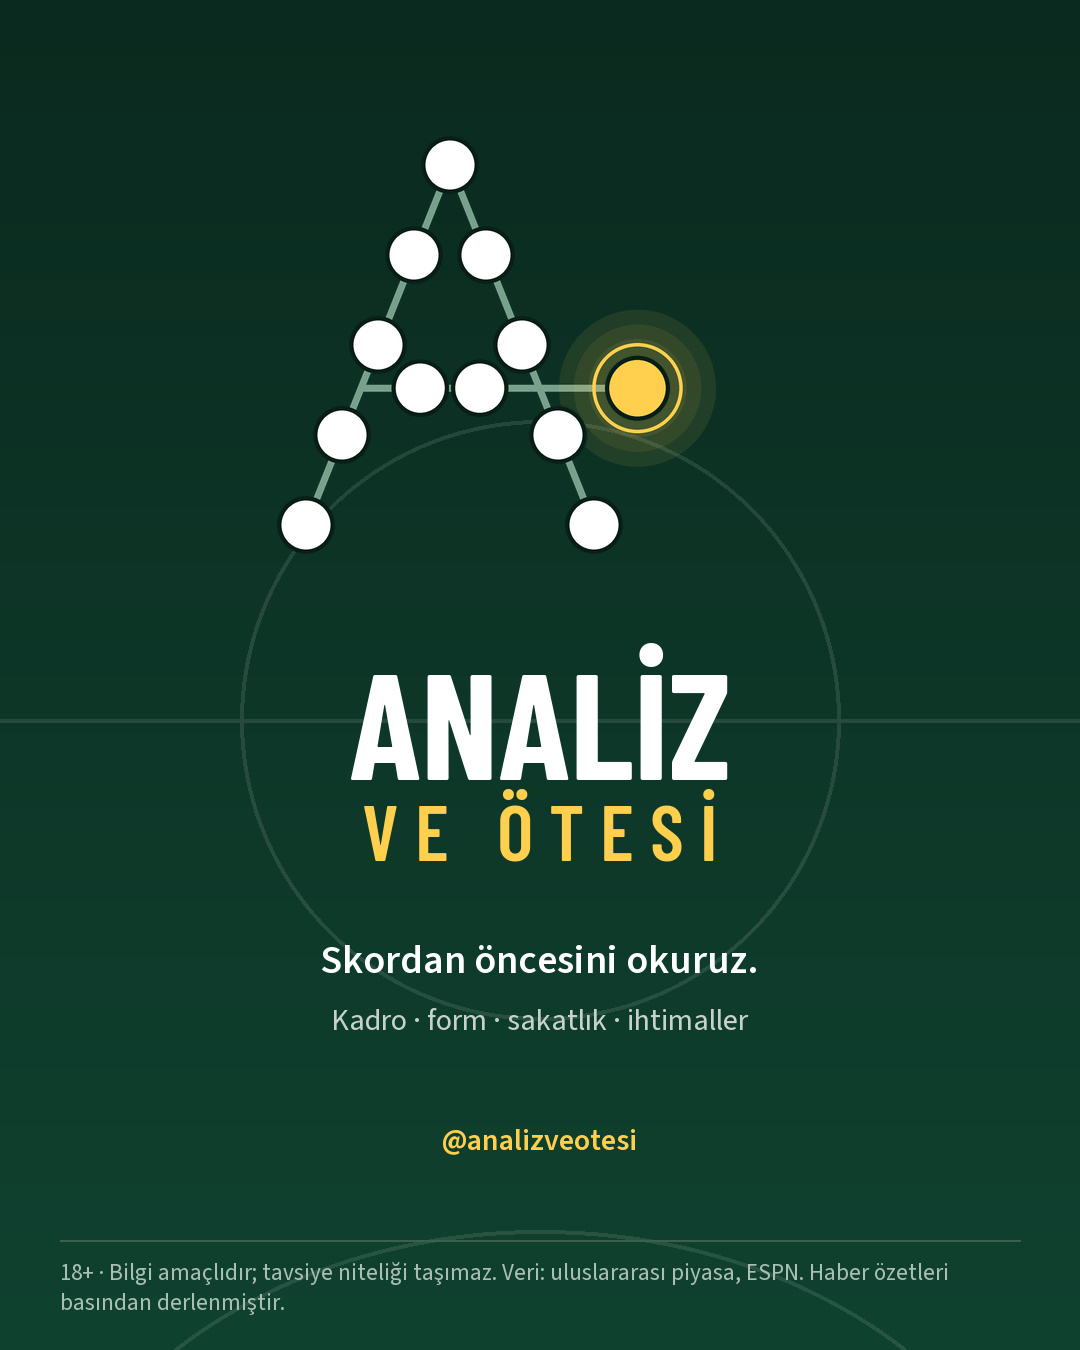
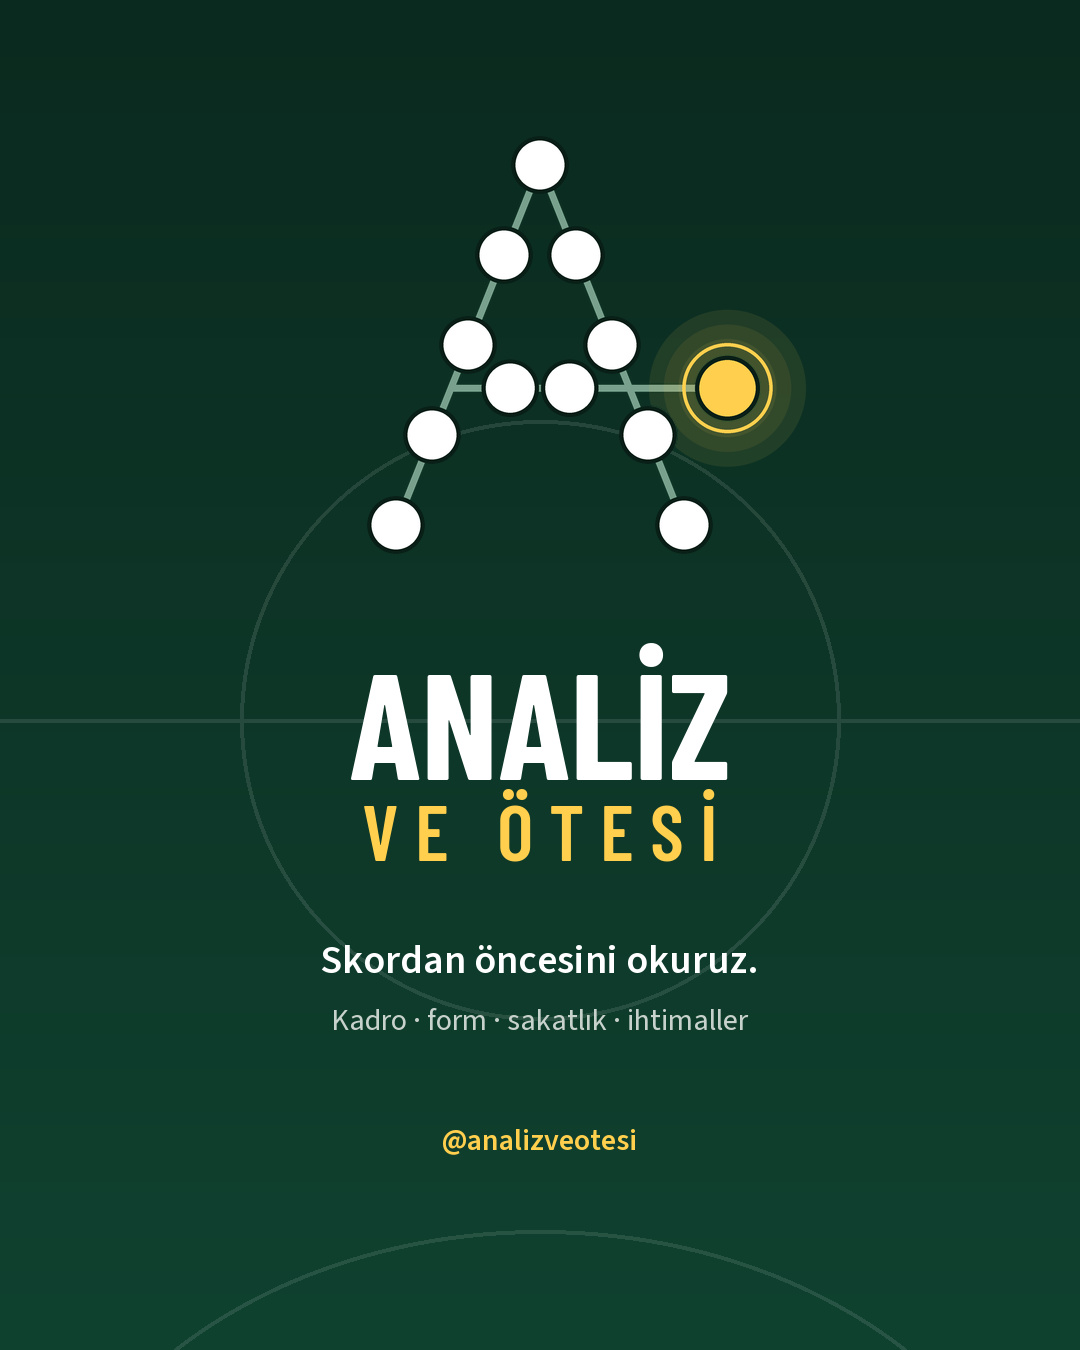
Tanıtım kapağı: A işareti tam ortada, 18+ dipnotu kapaktan kaldırıldı (4. kartta duruyor)
Claude-Session: https://claude.ai/code/session_01F7HBZh7xgBsU7aY3kX8Gem

Changed region(s): [[0.2444, 0.0933, 0.7333, 0.4044], [0.0611, 0.9333, 0.7333, 0.9644], [0.7639, 0.9333, 0.8861, 0.9644]]

diff --git a/intro.py b/intro.py
@@ -14,14 +14,13 @@ OUT = "docs/social/intro"
 def card1():
     img = pitch_background(); d = ImageDraw.Draw(img)
     mk = logo.mark_image(360)
-    img.paste(mk, ((W - mk.width) // 2, 120), mk)
+    img.paste(mk, (int(W / 2 - mk.width / 3), 120), mk)  # A'nın ekseni (işaretin 1/3'ü; sağdaki nokta hariç) ortada
     d.text((W / 2, 720), "ANALİZ", font=font("display", 150), fill=WHITE, anchor="mm")
     d.text((W / 2, 830), "V E   Ö T E S İ", font=ImageFont.truetype("assets/fonts/BarlowCondensed-SemiBold.ttf", 78), fill=YELLOW, anchor="mm")
     d.text((W / 2, 960), "Skordan öncesini okuruz.", font=font("semi", 40), fill=WHITE, anchor="mm")
     d.text((W / 2, 1020), "Kadro · form · sakatlık · ihtimaller", font=font("body", 30), fill=PALE, anchor="mm")
     d.text((W / 2, 1140), HANDLE, font=font("semi", 30), fill=YELLOW, anchor="mm")
-    footer(d, dark=True)
-    save(img, f"{OUT}/intro_1.jpg")
+    save(img, f"{OUT}/intro_1.jpg")  # kapakta 18+ dipnotu yok; 4. kartta var
 
 
 def bullets(d, y, items, fg=WHITE, dim=PALE, maxw=W - 160):
